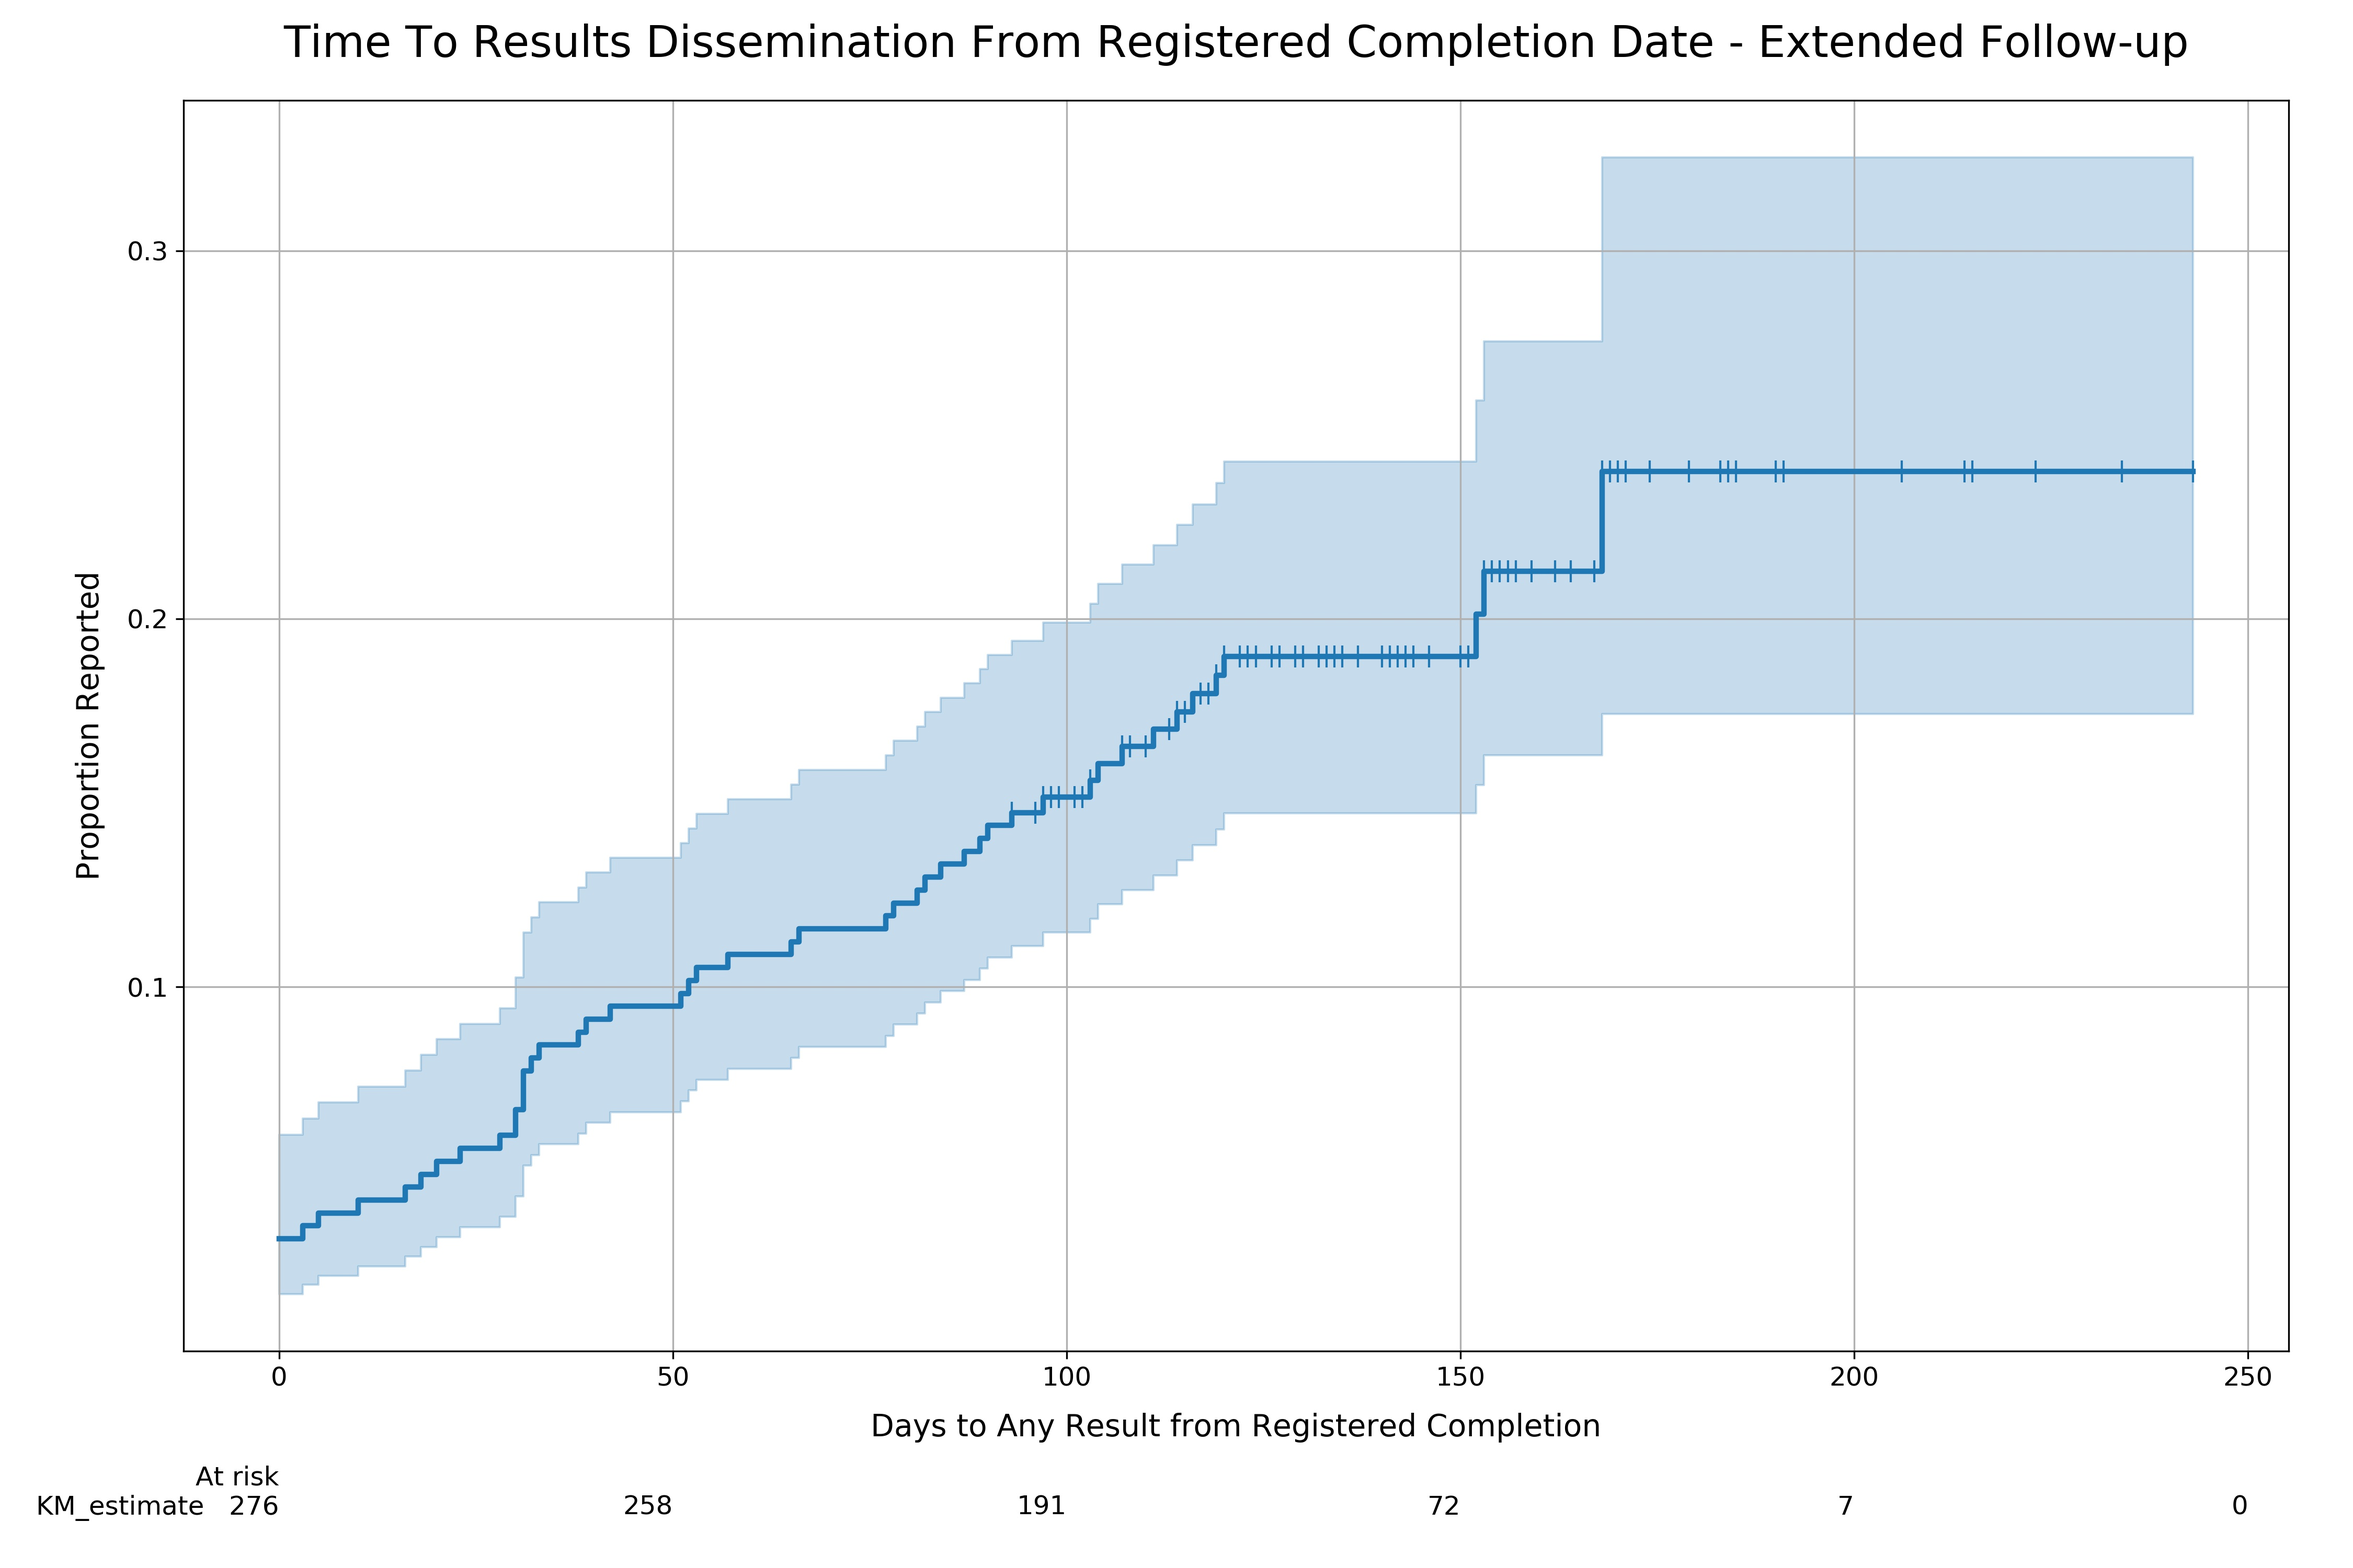
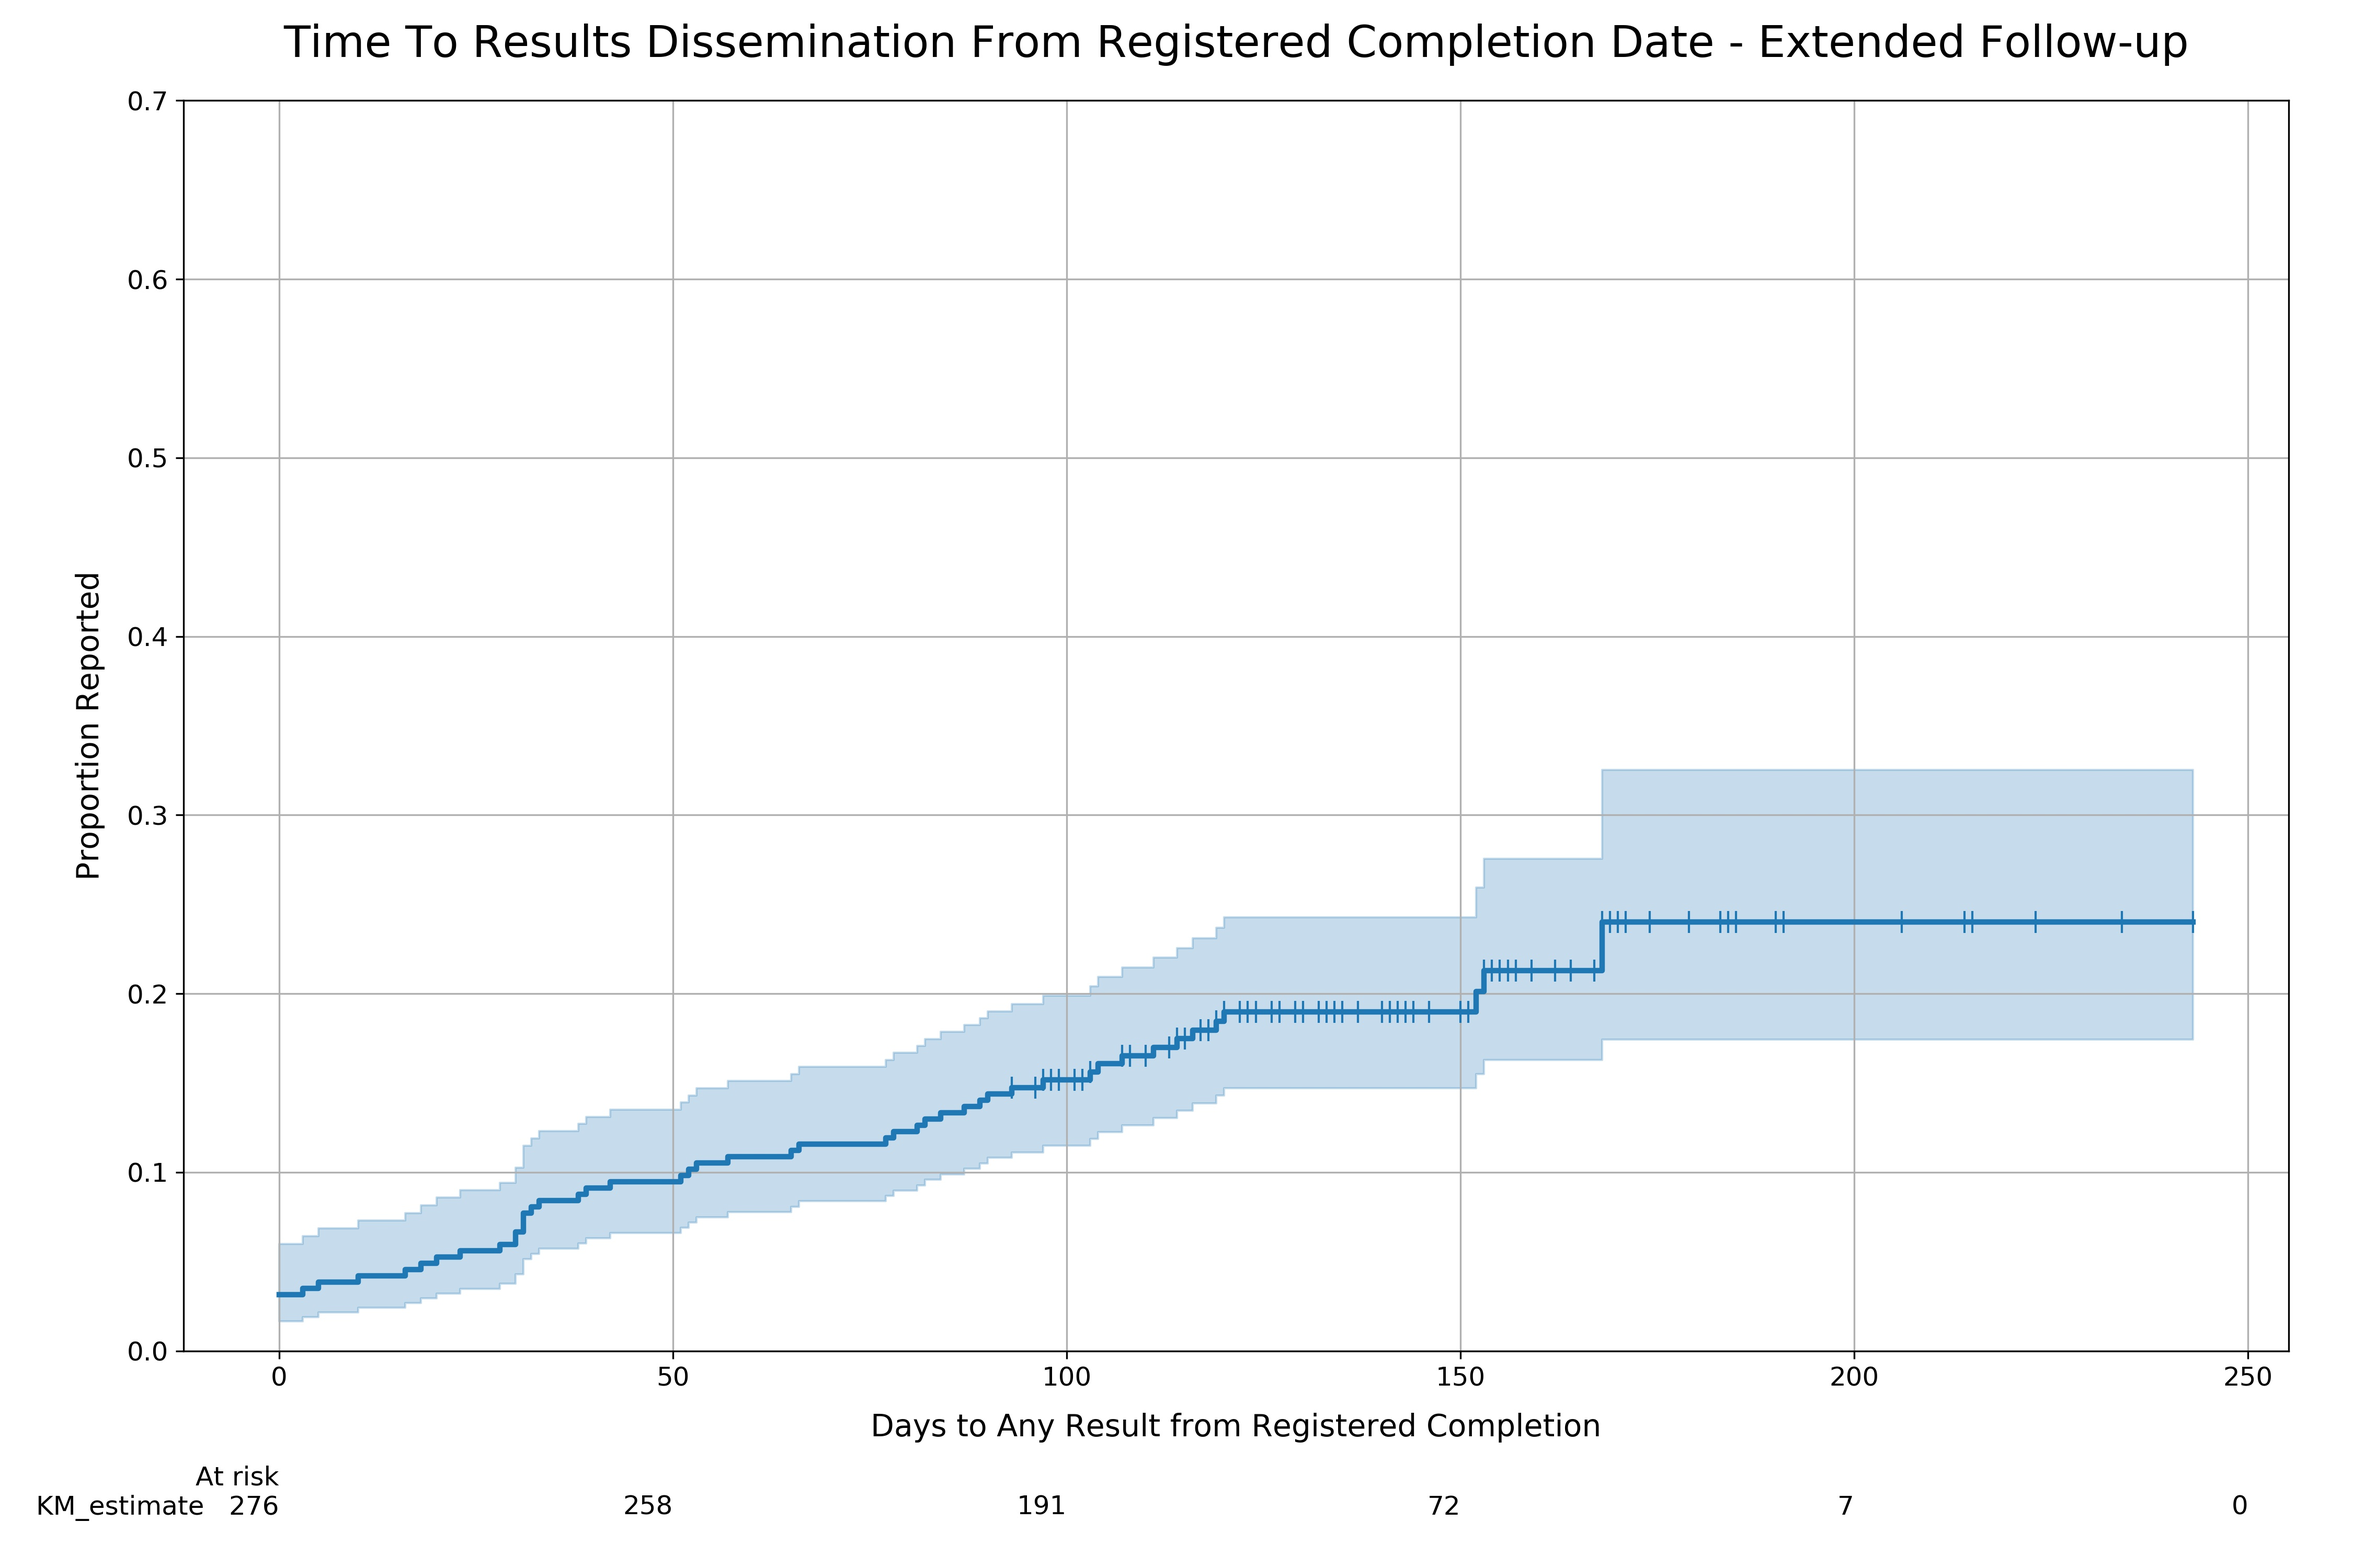
Updating figures
Updating figured based on peer review.

Changed region(s): [[0.0933, 0.093, 0.9333, 0.837], [0.0622, 0.155, 0.0933, 0.186]]

diff --git a/notebooks/diffable_python/6 Analysis and Figures.py b/notebooks/diffable_python/6 Analysis and Figures.py
@@ -107,7 +107,7 @@ any_pub['publication_any'] = any_pub['publication_any'].astype(int)
 any_pub['time_publication_any'] = np.where(any_pub['time_publication_any'] < 0, 0, any_pub['time_publication_any'])
 
 # +
-yticks = list(np.arange(0,.4,.05))
+yticks = list(np.arange(0,1.05,.05))
 fig = plt.figure(dpi=300)
 ax = plt.subplot()
 
@@ -137,7 +137,7 @@ article_pub['publication_article'] = article_pub['publication_article'].astype(i
 article_pub['time_publication_article'] = np.where(article_pub['time_publication_article'] < 0, 0, article_pub['time_publication_article'])
 
 # +
-yticks = list(np.arange(0,.3,.05))
+yticks = list(np.arange(0,1.05,.05))
 fig = plt.figure(dpi=300)
 ax = plt.subplot()
 
@@ -186,7 +186,7 @@ plt.show()
 # +
 figsize = (20,20)
 
-yticks = list(np.arange(0, .4, .05))
+yticks = list(np.arange(0, .75, .05))
 fig = plt.figure(dpi=200)
 fig.suptitle("Time to Results Across Dissemination Routes", x=.5, y=1.05, fontsize=25)
 
@@ -198,6 +198,7 @@ kmf_any.plot_cumulative_density(ci_show=True, show_censors=True, censor_styles={
 plt.ylabel('Proportion Reported', labelpad=10, fontsize=14)
 plt.xlabel('Days From Completion', labelpad=10, fontsize=14)
 plt.title('Time to Any Results Dissemination', pad=15, fontsize=18)
+plt.yticks(yticks)
 
 ax1.tick_params(labelsize=14)
 add_at_risk_counts(kmf_any, labels=[''], rows_to_show = ['At risk'], ax=ax1, fontsize=14)
@@ -211,6 +212,7 @@ kmf_article.plot_cumulative_density(ci_show=True, show_censors=True, censor_styl
 plt.ylabel('Proportion Reported', labelpad=10, fontsize=14)
 plt.xlabel('Days From Completion', labelpad=10, fontsize=14)
 plt.title('Time to Journal Publication', pad=15, fontsize=18)
+plt.yticks(yticks)
 
 ax2.tick_params(labelsize=14)
 add_at_risk_counts(kmf_article, labels=[''], rows_to_show = ['At risk'], ax=ax2, fontsize=14)
@@ -227,6 +229,7 @@ plt.plot(d.index, d['CIF_1'], '|', markersize=12, color='C0', markeredgecolor='#
 plt.ylabel('Proportion Reported', labelpad=10, fontsize=14)
 plt.xlabel('Days From Completion', labelpad=10, fontsize=14)
 plt.title('Time to Preprint Publication', pad=15, fontsize=18)
+plt.yticks(yticks)
 
 ax3.tick_params(labelsize=14)
 add_at_risk_counts(aj, labels=[''], rows_to_show = ['At risk'], ax=ax3, fontsize=14)
@@ -234,7 +237,7 @@ add_at_risk_counts(aj, labels=[''], rows_to_show = ['At risk'], ax=ax3, fontsize
 plt.subplots_adjust(hspace=.2)
 plt.tight_layout()
 plt.show()
-fig.savefig('Figures/km_curves.jpeg')
+#fig.savefig('Figures/km_curves.jpeg')
 # -
 
 # # 3 month follow-up data
@@ -246,7 +249,7 @@ any_pub_3['publication_any'] = any_pub_3['publication_any'].astype(int)
 any_pub_3[any_pub_3 < 0] = 0
 
 # +
-yticks = list(np.arange(0,.4,.1))
+yticks = list(np.arange(0,.75,.1))
 fig = plt.figure(dpi=300)
 ax = plt.subplot()
 
@@ -259,45 +262,49 @@ ax = kmf_3mo.plot_cumulative_density(ci_show=True, show_censors=True, censor_sty
 plt.title("Time To Results Dissemination From Registered Completion Date - Extended Follow-up", pad=20, fontsize=20)
 plt.ylabel('Proportion Reported', labelpad=10, fontsize=14)
 plt.xlabel('Days to Any Result from Registered Completion', labelpad=10, fontsize=14)
+plt.yticks(yticks)
 ax.tick_params(labelsize=12)
 
 from lifelines.plotting import add_at_risk_counts
 add_at_risk_counts(kmf_3mo, rows_to_show = ['At risk'], ax=ax, fontsize=12)
 plt.tight_layout()
-plt.savefig('Figures/extended_km.jpeg')
+#plt.savefig('Figures/extended_km.jpeg')
 # -
 
 # # Flowchart - Inclusion/Exclusion
 
 # +
 d = schemdraw.Drawing()
+bw = 7
+bh =2
+
 total = d.add(flow.Box(w=10, h=2, label= 'Registered COVID-19 Studies on ICTRP\n(N=3,844)'))
 d.add(flow.Arrow('down', l=11))
 d.add(flow.Arrow('right', at=(0, -3.5)))
-cross_reg = d.add(flow.Box(w=6.5, h=2, label=f'Known Cross-Registrations\n(n={3844-3749})', anchor='W'))
+cross_reg = d.add(flow.Box(w=bw, h=bh, label=f'Known Cross-Registrations\n(n={3844-3749})', anchor='W'))
 d.add(flow.Arrow('right', at=(0, -6)))
-pre2020 = d.add(flow.Box(w=6.5, h=2, label='Registered Prior to 2020\n(n=18)', anchor='W'))
+pre2020 = d.add(flow.Box(w=bw, h=bh, label='Registered Prior to 2020\n(n=18)', anchor='W'))
 d.add(flow.Arrow('right', at=(0,-8.5)))
-non_int = d.add(flow.Box(w=6.5, h=2, label='Not Interventional\n(n=1,565)', anchor='W'))
+non_int = d.add(flow.Box(w=bw, h=bh, label='Not Interventional\n(n=1,565)', anchor='W'))
 d.add(flow.Arrow('right', at=(0,-11)))
-withdrawn = d.add(flow.Box(w=6.5, h=2, label='Withdrawn on ICTRP\n(n=45)', anchor='W'))
+withdrawn = d.add(flow.Box(w=bw, h=bh, label='Withdrawn on ICTRP\n(n=45)', anchor='W'))
 
 auto_total = d.add(flow.Box(w=10, h=2, at=(0,-13), label='Passed Automated Inclusion\n(n=2121)'))
 d.add(flow.Arrow('down', l=13))
 d.add(flow.Arrow('right', at=(0, -16.5)))
-completed = d.add(flow.Box(w=6.5, h=2, label='Completion > 30 June 2020\n(n=1724)', anchor='W'))
+completed = d.add(flow.Box(w=bw, h=bh, label='Completion > 30 June 2020\n(n=1,724)', anchor='W'))
 d.add(flow.Arrow('right', at=(0, -19)))
-not_trial = d.add(flow.Box(w=6.5, h=2, label='Not a Clincial Trial\n(n=22)', anchor='W'))
+not_trial = d.add(flow.Box(w=bw, h=bh, label='Not a Clincial Trial\n(n=22)', anchor='W'))
 d.add(flow.Arrow('right', at=(0, -21.5)))
-not_covid = d.add(flow.Box(w=6.5, h=2, label='Not on Treatment/Prevention\n(n=83)', anchor='W'))
+not_covid = d.add(flow.Box(w=bw, h=bh, label='Not on Treatment/Prevention\n(n=83)', anchor='W'))
 d.add(flow.Arrow('right', at=(0, -24)))
-withdrawn_2 = d.add(flow.Box(w=6.5, h=2, label='Withdrawn on Manual Review\n(n=5)', anchor='W'))
+withdrawn_2 = d.add(flow.Box(w=bw, h=bh, label='Withdrawn on Manual Review\n(n=5)', anchor='W'))
 d.add(flow.Arrow('right', at=(0, -26.5)))
-man_dupes = d.add(flow.Box(w=6.5, h=2, label='Manual De-duplication\n(n=2)', anchor='W'))
+man_dupes = d.add(flow.Box(w=bw, h=bh, label='Manual De-duplication\n(n=2)', anchor='W'))
 
 final_total = d.add(flow.Box(w=10, h=2, at=(0,-28), label='Final Dataset\n(n=285)'))
 
-d.save('Figures/flowchart_covid_2021.jpeg', dpi=300)
+#d.save('Figures/flowchart_covid_2021.jpeg', dpi=300)
 d.draw()
 # -
 
@@ -321,10 +328,32 @@ d.add(flow.Arrow('right', at=(0,-16)))
 excluded = d.add(flow.Box(w=6.5, h=2, label='Publication identified\nas retrosepctive\n(n=1)', anchor='W'))
 final_total = d.add(flow.Box(w=10, h=2, at=(0,-18), label='Results Included\n(n=47)'))
 
-d.save('Figures/results_flowchart_covid_2021.jpeg', dpi=300)
+#d.save('Figures/results_flowchart_covid_2021.jpeg', dpi=300)
 d.draw()
 # -
+# # Venn Diagram
+
+# +
+colors = ['#377eb8', '#ff7f00', '#4daf4a','#f781bf', '#a65628', '#984ea3', '#999999', '#e41a1c', '#dede00']
+labels = ['Journal Articles', 'Registry Results', 'Preprints']
+values = (14, 2, 0, 21, 4, 0, 0)
 
 
+# +
+plt.figure(figsize=(8,8), dpi=300)
+v1 = venn3(
+    subsets = values, 
+    set_labels = labels,
+    set_colors = colors, 
+    subset_label_formatter = lambda x: str(x) + "\n(" + f"{(x/sum(values)):1.2%}" + ")", 
+    alpha = .6)
+
+for text in v1.set_labels:
+    text.set_fontsize(9)
+
+venn3_circles((14, 2, 0, 21, 4, 0, 0))
+plt.title('COVID-19 Clinical Trial Results by Dissemination Route', fontweight='bold')
+#plt.savefig('Figures/venn_diagram.jpeg')
+# -
 
 
